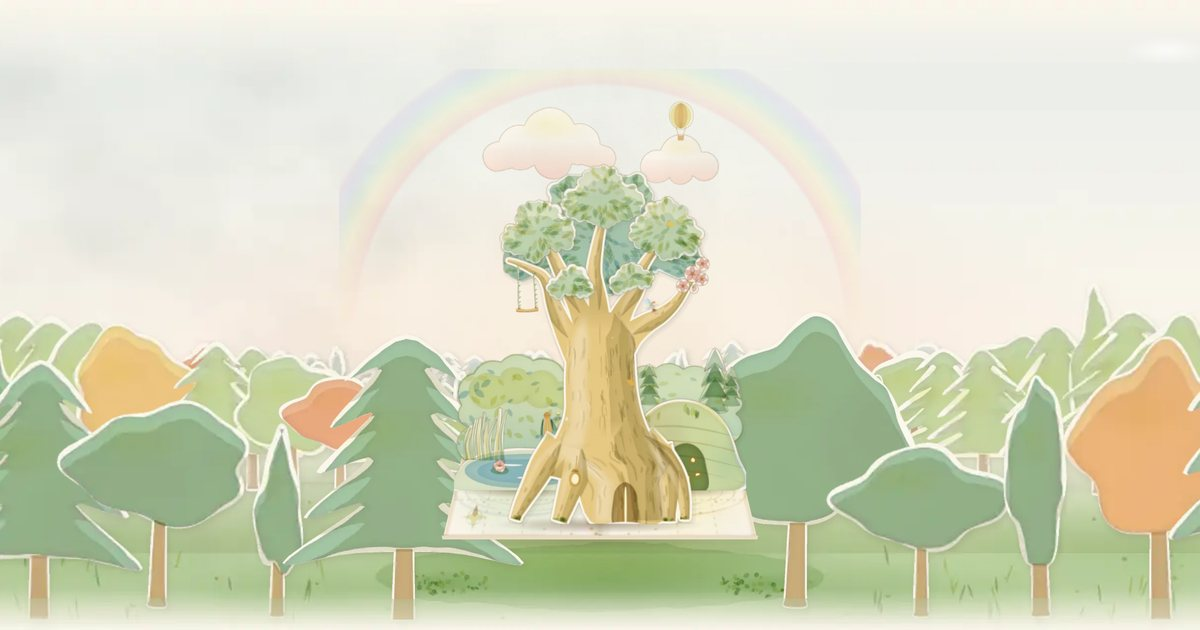
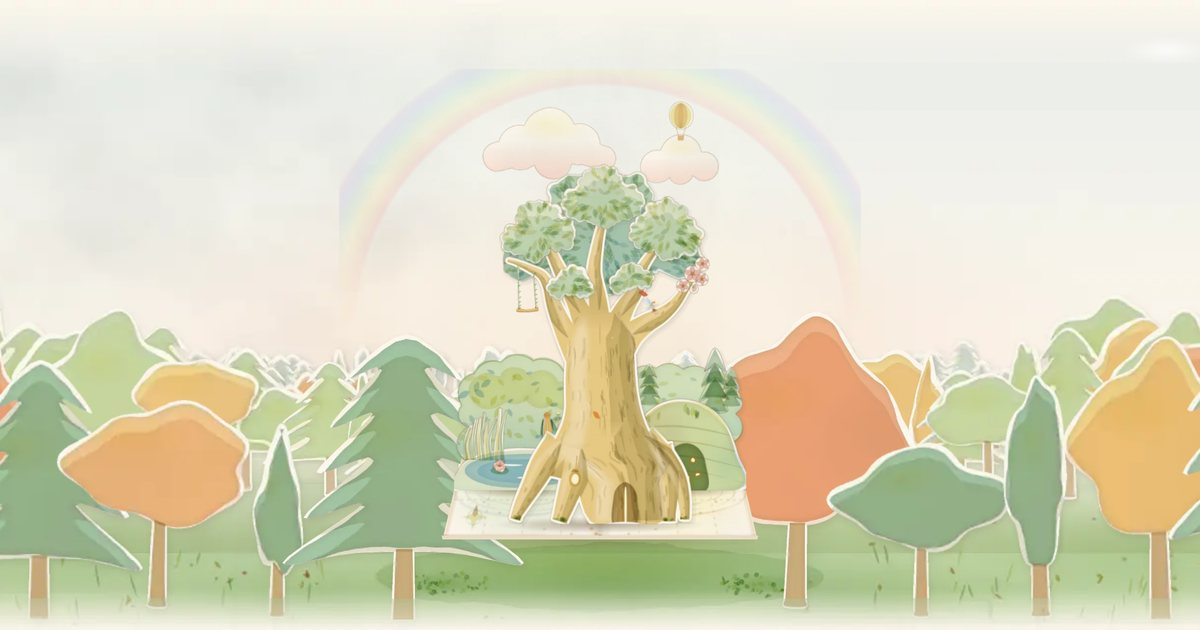
工房ホームページ：季節ごとの森（春・夏・秋・冬）・冬は紅葉する木が枝だけになり雪が積もる
- 森の並びは4つの季節で同じにし、色だけを変える。ページは今の季節の4枚だけを読む
- 春＝若葉に桜の桃・夏＝深い緑・秋＝金・朱・黄土・冬＝紅葉する木は葉を落として枝の上に雪、もみは段の上側に雪、常緑の葉むらは上の面に雪、地面は雪
- 曲を切り替えた後、裏の再生器の音量を 0 まで下げきる（0.001 が残ることがあった）

diff --git a/app.js b/app.js
@@ -1,7 +1,7 @@
 (() => {
   'use strict';
   // 台帳（works.json）は、組み立ての時にここへ流しこむ（ページの外から文字は入らない）
-  const DATA = {"places":[{"id":"roots","name":"根元の工房","sub":"地図と道具","line":"会社の道具を、AIとつくる作業場。連載の中身を、触れる地図と道具にしました。"},{"id":"branch","name":"枝","sub":"カードの花","line":"節目に咲く、仕掛けつきのカード。LINE で送れます。"},{"id":"play","name":"遊び場","sub":"ミニゲーム","line":"触って遊べるミニゲームの部屋。ここから直に入れます。"},{"id":"spring","name":"泉","sub":"音楽","line":"AI音楽工房の MV。工房が企画し、BGM&V Studio が制作しています。"},{"id":"cave","name":"洞窟","sub":"連載と動画","line":"経営者のための連載「AI内製化の羅針盤」と、記事の動画。"},{"id":"cloud","name":"雲の上","sub":"旅","line":"本物の旅のしおりと、想像の世界旅行。"}],"notice":["当工房では職人が気ままに作っているため、突然変更が入ったり、途中でとまっているコンテンツがあったりします。","これは作成途中をリアルタイムにお見せする趣旨のものですので、作りかけの雰囲気も含めて楽しんでもらい、成長を見守っていただけたら幸いです。"],"voices":{"調整中":["ちょっと調整中。見てもいいけど変なところがあっても気にしないでね。","いま、ねじを締め直しているところ。動くけど、ときどきガタッとするかも。","仕上げの真っ最中！ 気づいたことがあったら、そっと教えてね。","ただいま磨き中。ピカピカになるまで、もう少し。"],"作りかけ":["ただいま作りかけ。リアルタイム進行中。","まだ骨組みだけど、のぞいていってね。","作っている途中をそのまま見せちゃうよ。明日には変わってるかも！","工房の机の上で、いま組み立て中。"],"準備中":["今作成中だよ！もうすぐ公開するね！","まだ種の中。芽が出たら、ここでお知らせするね。","いま、絵の具を溶いているところ。もう少しだけ待っててね。","職人がこっそり仕込み中。お楽しみに！"]},"works":[{"place":"roots","group":"3Dの地図","kind":"触れる","name":"4つの島の航海図（利益マップ）","note":"「何から入れると儲かる？」を、3Dの海図に。","url":"https://tatatasan323-cell.github.io/note-app/"},{"place":"roots","group":"3Dの地図","kind":"触れる","name":"天空の城への道（内製化ロードマップ）","note":"6つの関門を越えて、天空の城へ。","url":"https://tatatasan323-cell.github.io/note-app/road.html"},{"place":"roots","group":"3Dの地図","kind":"触れる","name":"AIの全体地図（6層＋4横断面）","note":"会社のAIの仕組みを、6つの層で見る。","url":"https://tatatasan323-cell.github.io/note-app/arch.html"},{"place":"roots","group":"3Dの地図","kind":"触れる","name":"そもそもAIって？ 5部作の地図","note":"「そもそもAIって？」5本の地図。","url":"https://tatatasan323-cell.github.io/note-app/aimap/"},{"place":"roots","group":"道具","kind":"触れる","name":"城 ─ 経営ステータス","note":"社長の一枚画面。架空の会社で動くデモ。","url":"https://tatatasan323-cell.github.io/castle/"},{"place":"roots","group":"道具","kind":"触れる","name":"転記ゼロ（tenki-zero 体験版）","note":"転記の手作業をなくす仕組みを、ブラウザで試す。","url":"https://tatatasan323-cell.github.io/tenki-zero/"},{"place":"roots","group":"手引き","kind":"読む","name":"AIエージェント利用ガイド","note":"部下としてハーネスする。社内で配れる手引き。","url":"https://tatatasan323-cell.github.io/note-app/ai-agent-guide.html"},{"place":"roots","group":"手引き","kind":"読む","name":"乗っ取り対策の手引き","note":"パスキーでも守れない、2つの穴。","url":"https://tatatasan323-cell.github.io/note-app/security-guide.html"},{"place":"roots","group":"手引き","kind":"読む","name":"会社のセキュリティ段階表","note":"自社の段階を確かめる表。","url":"https://tatatasan323-cell.github.io/note-app/security-levels.html"},{"place":"roots","group":"時報","kind":"読む","name":"ＡＩ内製化時報 第001号","note":"システムプロンプト、八割削除。","url":"https://tatatasan323-cell.github.io/note-app/jihou-001.html"},{"place":"roots","group":"時報","kind":"読む","name":"ＡＩ内製化時報 第002号","note":"穴を空けたのはAI、突いたのもAI。","url":"https://tatatasan323-cell.github.io/note-app/jihou-002.html"},{"place":"roots","group":"工房のこれから","kind":"歩く","status":"準備中","name":"世界樹の村（3Dで歩ける町）","note":"この地図の本から入って、村を歩けるようにします。","url":""},{"place":"branch","group":"カード","kind":"触れる","name":"ハロウィン招待状 ─ おばけの庭へようこそ","note":"おばけに触れると、音と豆知識。","url":"https://tatatasan323-cell.github.io/gimmick-cards/halloween/"},{"place":"branch","group":"カード","kind":"触れる","name":"とろけて聖夜 ─ おかしな港町","note":"宝石をはじき、ステンドグラスを割り、氷を削る冬の港町（動く3D）。","url":"https://tatatasan323-cell.github.io/gimmick-cards/christmas-town/"},{"place":"branch","group":"カード","kind":"触れる","name":"とろけて聖夜 ─ X'mas グリーティングカード","note":"港町とつながるカード。","url":"https://tatatasan323-cell.github.io/gimmick-cards/christmas-town/card.html"},{"place":"branch","group":"カード","kind":"触れる","status":"調整中","name":"正月のカード ─ 作品の一覧","note":"正月のカード 76 作。絵を押すと、さわって動く本物が開きます。","url":"https://ai-naiseika.github.io/cards/shogatsu/"},{"place":"branch","group":"カード","kind":"触れる","status":"作りかけ","name":"送る予定 ─ 節目のカード","note":"カードを、あとで送るための予定。時間になったら、スマホのカレンダーが知らせます。","url":"https://ai-naiseika.github.io/cards/yotei/"},{"place":"play","group":"おかしな港町の部屋","kind":"触れる","name":"ステンドグラスの礼拝堂","note":"窓をタップすると、かけらが落ちて砕け、光の粒になって元の窓へ。","date":"2026-10-16","url":"https://tatatasan323-cell.github.io/gimmick-cards/christmas-town/glass.html?from=kobo"},{"place":"play","group":"おかしな港町の部屋","kind":"触れる","name":"宝石の美術館","note":"一人称で歩く大ホール。宝石はそっと触ると歌い、強くたたくと…？","date":"2026-10-16","url":"https://tatatasan323-cell.github.io/gimmick-cards/christmas-town/museum.html?from=kobo"},{"place":"play","group":"おかしな港町の部屋","kind":"触れる","name":"氷の彫像の広場","note":"ノミでコンコン、機械でガリガリ。削って宝石を取り出す。","date":"2026-10-16","url":"https://tatatasan323-cell.github.io/gimmick-cards/christmas-town/ice.html?from=kobo"},{"place":"play","group":"おかしな港町の部屋","kind":"触れる","name":"ぷるぷる水そう","note":"水の中を泳ぎながら、グミたちをつまんで伸ばす。","date":"2026-10-16","url":"https://tatatasan323-cell.github.io/gimmick-cards/christmas-town/swim.html?from=kobo"},{"place":"play","group":"おかしな港町の部屋","kind":"触れる","name":"グミのつみき","note":"空に浮かぶテーブルで、グミの積み木。はじいて、持って、高く積む。","date":"2026-10-16","url":"https://tatatasan323-cell.github.io/gimmick-cards/christmas-town/blocks.html?from=kobo"},{"place":"spring","group":"MV","kind":"見る","name":"雨上がりの小径 ― 水たまりを、跳んでいたころ","note":"最初の MV。","date":"2026-10-06","url":"https://youtu.be/yi53ACtNxp8"},{"place":"spring","group":"MV","kind":"見る","name":"パンプキン・ポン！ ― ハロウィンの夜のドキドキ","note":"切り絵の魔女とモンスターの踊り。","date":"2026-10-14","url":"https://youtu.be/uFx4Vcr8o8A"},{"place":"spring","group":"MV","kind":"見る","name":"Friends Around the Table ─ テーブルに集まれ！","note":"クリスマス3部作の1本目。","date":"2026-10-19","url":"https://youtu.be/pEvqS5da3-s"},{"place":"spring","group":"MV","kind":"見る","name":"Christmas Feels Like Being ─ きみといる、それがクリスマス","note":"クリスマス3部作の2本目。","date":"2026-10-20","url":"https://youtu.be/Z6vJkx9_u-s"},{"place":"spring","group":"MV","kind":"見る","name":"Singing Glory ─ グローリー・グローリー！","note":"クリスマス3部作の3本目。","date":"2026-10-23","url":"https://youtu.be/oR3KyE3Zmxo"},{"place":"cave","group":"記事の動画","kind":"見る","name":"AI導入、なぜ罠にはまる？ ─ 天空の城へ続く「6つの関門」","note":"","date":"2026-10-13","url":"https://youtu.be/-Dja11xVGzQ"},{"place":"cave","group":"記事の動画","kind":"見る","name":"AI導入、まず何から？ ─ 儲けにつながる「4つの島」の航海図","note":"","date":"2026-10-10","url":"https://youtu.be/xKATNxc-q50"},{"place":"cave","group":"記事の動画","kind":"見る","name":"動画生成AIなしで描いた26の画風 ── コードで描くアニメーション見本帳","note":"","date":"2026-10-07","url":"https://youtu.be/dQ2MLnKi8rE"},{"place":"cave","group":"記事の動画","kind":"見る","name":"DeepSeekなど中国AIは業務に使っていい？ ー 決め手は性能でも価格でもなく「調達」","note":"","date":"2026-10-06","url":"https://youtu.be/P4EKVp7NFms"},{"place":"cave","group":"記事の動画","kind":"見る","name":"「AIで、仕事は消えるのか」──ある会社の \"未来の一日\"【朗読ストーリー】","note":"","date":"2026-08-15","url":"https://youtu.be/s-KqdbO6xWk"},{"place":"cave","group":"記事の動画","kind":"見る","name":"【HTMLとは？ Pythonとは？】 AI内製化の全体像が4分で分かる見取り図","note":"","date":"2026-07-27","url":"https://youtu.be/c1A3KVXweG0"},{"place":"cave","group":"記事の動画","kind":"見る","name":"【スクール不要】月3,000円で始めるAI内製化／総集編・全8話","note":"","date":"2026-07-03","url":"https://youtu.be/3dDNd_MuB0Y"},{"place":"cave","group":"物語","kind":"読む","name":"未来の一日 ─ どこにでもある会社の朝","note":"朗読ストーリーの本。","url":"https://tatatasan323-cell.github.io/note-app/mirai/"},{"place":"cave","group":"連載","kind":"読む","date":"2026-10-19","name":"AI利用、どこから始めるか。答えは「1人」と「1つの痛み」","url":"https://note.com/ai_naiseika/n/n27912da5b3da"},{"place":"cave","group":"連載","kind":"読む","date":"2026-10-13","name":"「スクールもコンサルも要らない」の、本当の意味","url":"https://note.com/ai_naiseika/n/n51217db465e9"},{"place":"cave","group":"連載","kind":"読む","date":"2026-10-12","name":"前橋の観光案内を、AIと2日で作る ー 「確かめた度合い」を隠さない作り方","url":"https://note.com/ai_naiseika/n/n5c6551d1beac"},{"place":"cave","group":"連載","kind":"読む","date":"2026-10-12","name":"工房からの警告 再び ー AIに任せていい所、いけない所","url":"https://note.com/ai_naiseika/n/neb45bbba31cf"},{"place":"cave","group":"連載","kind":"読む","date":"2026-10-10","name":"AIエージェントがあるのに、仕組みを作る理由 ー 内製化すべき2つの場所","url":"https://note.com/ai_naiseika/n/n667d22b71479"},{"place":"cave","group":"連載","kind":"読む","date":"2026-10-07","name":"会話だけで動画を作る ー【脱・動画生成】AIアニメーションの可能性","url":"https://note.com/ai_naiseika/n/na5e82389ac72"},{"place":"cave","group":"連載","kind":"読む","date":"2026-10-06","name":"工房からの警告 ー 「AIが勝手に動き回る？」報道の真偽と、守るべき場所","url":"https://note.com/ai_naiseika/n/n4c308409efd9"},{"place":"cave","group":"連載","kind":"読む","date":"2026-10-03","name":"ある日突然の「アカバン」 ー 生成AIサブスクの落とし穴","url":"https://note.com/ai_naiseika/n/n8923fd964394"},{"place":"cave","group":"連載","kind":"読む","date":"2026-09-29","name":"AI巨額投資の行く末 ー いつか来る「ババ抜き」ゲームの終わり","url":"https://note.com/ai_naiseika/n/nc9e8207bcf78"},{"place":"cave","group":"連載","kind":"読む","date":"2026-09-28","name":"パスキーも乗っ取られる時代に。必ずすべきセキュリティ対策とは。","url":"https://note.com/ai_naiseika/n/n5b747190fa6e"},{"place":"cave","group":"連載","kind":"読む","date":"2026-09-27","name":"AI暴走論と終末論のさなかで ー あなたがすべき一手とは","url":"https://note.com/ai_naiseika/n/nf04f65023439"},{"place":"cave","group":"連載","kind":"読む","date":"2026-09-21","name":"奇跡の37手から10年。中国AIの実力と、日本企業が引くべき一線。","url":"https://note.com/ai_naiseika/n/n31214e08120e"},{"place":"cave","group":"連載","kind":"読む","date":"2026-09-20","name":"AI依存症に陥らないためのガイド ー 「AIに聞く/指示する」2つの違い","url":"https://note.com/ai_naiseika/n/n4193a3063552"},{"place":"cave","group":"連載","kind":"読む","date":"2026-09-14","name":"あなたのAI、期待通り動きますか？ ー AIの力を引き出すための思考法","url":"https://note.com/ai_naiseika/n/n7e4462f1908f"},{"place":"cave","group":"連載","kind":"読む","date":"2026-09-08","name":"バックオフィスが消える日。社内ステータスがリアルに見える未来への羅針盤。","url":"https://note.com/ai_naiseika/n/n07f8688e64df"},{"place":"cave","group":"連載","kind":"読む","date":"2026-08-31","name":"AIが空けた穴を、別のAIが5日で見つけて突く ── 8月までのAI事故と、私の工房の点検結果","url":"https://note.com/ai_naiseika/n/ned77cf0c294e"},{"place":"cave","group":"連載","kind":"読む","date":"2026-08-26","name":"AIのこれから ─ 「情報の土台」を持つことの意味","url":"https://note.com/ai_naiseika/n/n54fd60e90f04"},{"place":"cave","group":"連載","kind":"読む","date":"2026-08-24","name":"AI最前線 ─ 代表5社の現在地と、内製化に使うべき道具","url":"https://note.com/ai_naiseika/n/n06bea781e796"},{"place":"cave","group":"連載","kind":"読む","date":"2026-08-17","name":"OpenAIという物語 ─ 「人類のためのAI」は、どこへ向かっているのか","url":"https://note.com/ai_naiseika/n/n12816bc47432"},{"place":"cave","group":"連載","kind":"読む","date":"2026-08-11","name":"70年というAIの歩み ─ その挑戦と、“ 奇跡の一手 ” と、一本の論文","url":"https://note.com/ai_naiseika/n/n3471aeed4c26"},{"place":"cave","group":"連載","kind":"読む","date":"2026-08-01","name":"AIとは本当は何なのか　優秀な相棒？　頼れる相談役？　得体のしれない何か？","url":"https://note.com/ai_naiseika/n/n33eadda7b1b0"},{"place":"cave","group":"連載","kind":"読む","date":"2026-07-31","name":"経営者が知るべき、最後まで残る仕事 ─ AIが連れて行く “異世界” の話","url":"https://note.com/ai_naiseika/n/ne340418a0949"},{"place":"cave","group":"連載","kind":"読む","date":"2026-07-28","name":"Anthropicが、自社のAI開発ツールの内部指示を8割以上削除。その真意は？","url":"https://note.com/ai_naiseika/n/nec9184d934b1"},{"place":"cave","group":"連載","kind":"読む","date":"2026-07-27","name":"HTMLとは？ Pythonとは？ ─ 目指す内製化を一目で理解する見取り図","url":"https://note.com/ai_naiseika/n/ne47dde16170f"},{"place":"cave","group":"連載","kind":"読む","date":"2026-07-23","name":"AIは本当に安全なのか？ 世間で騒がれているプロンプトインジェクションを回避する唯一の方法とは？","url":"https://note.com/ai_naiseika/n/nd3d82deb2f4f"},{"place":"cave","group":"連載","kind":"読む","date":"2026-07-20","name":"その事務仕事いつまでやるのですか？【２】　例えば転記作業が無くなる日","url":"https://note.com/ai_naiseika/n/n5f46bef5c41b"},{"place":"cave","group":"連載","kind":"読む","date":"2026-07-12","name":"その事務仕事いつまでやるのですか？【１】　例えば明細を放り込むだけのツール","url":"https://note.com/ai_naiseika/n/n56e563d80e2a"},{"place":"cave","group":"連載","kind":"読む","date":"2026-07-06","name":"AI導入、知らないと失敗する ─ 成功に近づくための「内製化ロードマップ」","url":"https://note.com/ai_naiseika/n/nbf98e9add127"},{"place":"cave","group":"連載","kind":"読む","date":"2026-07-04","name":"ぶっちゃけ、AIは何から入れると儲かる？ ─ 経営者のための “利益” の地図","url":"https://note.com/ai_naiseika/n/nb7e3a2ca7fca"},{"place":"cave","group":"連載","kind":"読む","date":"2026-06-29","name":"繰り返し定型作業をAIで ─ 一度の “仕組み” が大切","url":"https://note.com/ai_naiseika/n/n9462746fd8ba"},{"place":"cave","group":"連載","kind":"読む","date":"2026-06-22","name":"メールは良いのに、AIはダメ？ ─ 会社の情報を “どこまで外に出すか”","url":"https://note.com/ai_naiseika/n/n295bc71d253d"},{"place":"cave","group":"連載","kind":"読む","date":"2026-06-15","name":"プロトタイプは早い、本番はその先 ─ 内製化を「育てる」ということ","url":"https://note.com/ai_naiseika/n/n4f8ea3f4696d"},{"place":"cave","group":"連載","kind":"読む","date":"2026-06-12","name":"バイブコーディングが通用しなくなる日 ─ AIに渡す『要件定義』の話","url":"https://note.com/ai_naiseika/n/n5f043fb74a72"},{"place":"cave","group":"連載","kind":"読む","date":"2026-06-09","name":"AIは嘘をつかない。けれど、あなたに「忖度」する","url":"https://note.com/ai_naiseika/n/n34c94b0c2a20"},{"place":"cave","group":"連載","kind":"読む","date":"2026-06-04","name":"AIと迷走しないために、最初にやるべきこと","url":"https://note.com/ai_naiseika/n/nb72e3552d43d"},{"place":"cave","group":"連載","kind":"読む","date":"2026-05-31","name":"AIエージェントを、今日入れる ─ 使い方も、AIに聞けばいい","url":"https://note.com/ai_naiseika/n/n808d67e92440"},{"place":"cave","group":"連載","kind":"読む","date":"2026-05-26","name":"「こうしたい」と伝えるだけで、何かが作れる時代","url":"https://note.com/ai_naiseika/n/n912fbc83f1c6"},{"place":"cave","group":"連載","kind":"読む","date":"2026-05-25","name":"料理人だった私が、AI内製化でシステムを作れる理由","url":"https://note.com/ai_naiseika/n/nd6a51b98694c"},{"place":"cave","group":"連載","kind":"読む","date":"2026-05-18","name":"AIを学ぶのに「スクール」「コンサル」が要らない新時代","url":"https://note.com/ai_naiseika/n/ndfc95eb3f0fa"},{"place":"cloud","group":"旅のしおり","kind":"使う","name":"前橋まちあるき（12/20 まで）","note":"芸術祭と「詩のまち」を歩く案内。確かめた度合いを印で示す。","url":"https://tatatasan323-cell.github.io/note-app/tabi/maebashi/"},{"place":"cloud","group":"旅のしおり","kind":"使う","name":"松本まちあるき","note":"松本駅から美ヶ原温泉まで、ゆるく歩く参考メモ（11/7〜8 の例）。","url":"https://tatatasan323-cell.github.io/note-app/tabi/matsumoto-burari/"},{"place":"cloud","group":"世界旅行","kind":"見る","name":"想像の世界旅行","note":"雲に乗って、想像だけで世界を旅する部屋を作っています。","status":"準備中","url":""}],"links":[{"name":"note「AI内製化の羅針盤」","url":"https://note.com/ai_naiseika"},{"name":"YouTube「AI内製化工房 MITA」","url":"https://www.youtube.com/@ai_naiseika_mita"},{"name":"X @ai_naiseika","url":"https://x.com/ai_naiseika"},{"name":"音楽 BGM&V Studio（AI音楽工房の制作）","url":"https://www.youtube.com/@BackgroundMusicVideoStudio"}],"trees":{"sizes":[[1334,481],[1485,1108]],"cells":[[-153,268,314,243,868,396,12,495,0,1],[-7,283,281,227,261,677,128,494,0,1],[102,302,270,216,772,677,241,497,0,1],[234,319,265,197,0,911,368,495,0,1],[374,349,194,163,947,0,477,495,0,0],[465,366,189,151,1143,0,566,503,0,0],[813,367,184,136,0,345,906,489,0,0],[897,324,259,185,686,0,1018,489,0,0],[1016,313,220,198,1263,677,1126,493,0,1],[1079,274,296,243,1184,396,1223,497,0,1],[1198,256,312,254,554,396,1349,492,0,1],[1313,284,259,232,0,677,1444,501,0,1],[-169,240,398,394,0,0,30,620,1,1],[-11,325,322,315,1131,0,150,630,1,1],[136,358,268,266,284,396,270,610,1,1],[283,419,217,215,1044,677,392,620,1,1],[344,297,351,343,0,0,520,630,1,0],[752,297,331,327,353,0,918,610,1,0],[933,410,226,224,544,677,1046,620,1,1],[1027,355,282,279,0,396,1168,620,1,1],[1121,310,338,330,791,0,1290,630,1,1],[1215,239,389,385,400,0,1410,610,1,1]]},"music":{"settings":{"volume":0.7,"overlap":4,"fade_in":4},"rules":[{"place":"roots","song":"03"},{"months":[12,1,2],"hours":[16,5],"song":"06"},{"hours":[5,11],"song":"01"},{"hours":[11,16],"songs":["04","05"]},{"hours":[16,5],"song":"02"}],"songs":[{"no":"01","title":"朝つゆの森","note":"朝の光が、葉の先の露をひとつずつ照らしていく森。チェレスタとオルゴールがきらきらと目をさまし、ハープとグロッケン、カリンバが続きます。フルートは、遠くで鳴く小鳥のように。","trivia":["チェレスタは、パリの楽器製作者オーギュスト・ミュステルが1886年に特許をとった楽器。","チャイコフスキーの『くるみ割り人形』の「金平糖の踊り」は、チェレスタを使った曲として有名。"],"file":"bgm/01.m4a","bpm":68.0,"ready":true},{"no":"02","title":"ほたるの灯る夜","note":"日が落ちて、森にほたるの小さな灯りがともる夜。チェレスタとオルゴール、ハープが静かに瞬き、言葉のないコーラスと鈴の音が、闇をやさしく包みます。","trivia":["オルゴールの歴史は1796年、ジュネーブの時計職人アントワーヌ・ファーブルの発明から始まったとされる。"],"file":"bgm/02.m4a","bpm":58.75,"ready":true},{"no":"03","title":"世界樹への祈り","note":"工房の根元で、世界樹に手を当てて祈るひととき。ケルトのハープが静かに語り、ティンホイッスルが風のように、チェロが大地のように深く響きます。","trivia":["アイルランドの国章はハープ。大統領や大臣の印章にも、アイルランドのユーロ硬貨にも描かれている。","国章のハープのお手本は、ダブリンのトリニティ・カレッジの博物館に残る14世紀のハープ。"],"file":"bgm/03.m4a","bpm":89.1,"ready":true},{"no":"04","title":"妖精たちのワルツ","note":"昼下がりの木もれ日の中、妖精たちが輪になって踊る3拍子。オルゴールとチェレスタがくるくる回り、ピチカートの弦が足どりを刻み、フルートが軽やかに舞います。","trivia":["ワルツは4分の3拍子の踊りの曲。1814〜15年のウィーン会議をきっかけに、ヨーロッパ中へ広まった。","『美しく青きドナウ』は「ワルツ王」ヨハン・シュトラウス2世の曲。1867年にウィーンで初演された。"],"file":"bgm/04.m4a","bpm":95.7,"ready":true},{"no":"05","title":"雨上がりのしずく","note":"雨がやんで、葉から落ちるしずくが光る森。ピアノとチェレスタが雫のように、カリンバがぽつぽつと、ウィンドチャイムが風にゆれて鳴ります。","trivia":["カリンバはアフリカの「親指ピアノ」の仲間。金属の鍵の親指ピアノは、約1300年前にザンベジ川のほとりで生まれたという。","ピアノの黒鍵だけを弾くと、五つの音でできた音階「ペンタトニック（五音音階）」になる。"],"file":"bgm/05.m4a","bpm":64.6,"ready":true},{"no":"06","title":"雪ふる森の冬ごもり","note":"雪が音を吸いこんで、しんと静かな冬の夜の森。チェレスタとオルゴール、ハープがやわらかく降り、グラスハーモニカの澄んだ響きが、雪明かりのように広がります。","trivia":["グラスハーモニカは、フランクリンが1761年に完成させた楽器。回るガラスの器のふちに、ぬれた指で触れて鳴らす。","モーツァルトも1791年、グラスハーモニカの入った「アダージョとロンド」（K.617）を書いた。"],"file":"bgm/06.m4a","bpm":68.0,"ready":true}]}};
+  const DATA = {"places":[{"id":"roots","name":"根元の工房","sub":"地図と道具","line":"会社の道具を、AIとつくる作業場。連載の中身を、触れる地図と道具にしました。"},{"id":"branch","name":"枝","sub":"カードの花","line":"節目に咲く、仕掛けつきのカード。LINE で送れます。"},{"id":"play","name":"遊び場","sub":"ミニゲーム","line":"触って遊べるミニゲームの部屋。ここから直に入れます。"},{"id":"spring","name":"泉","sub":"音楽","line":"AI音楽工房の MV。工房が企画し、BGM&V Studio が制作しています。"},{"id":"cave","name":"洞窟","sub":"連載と動画","line":"経営者のための連載「AI内製化の羅針盤」と、記事の動画。"},{"id":"cloud","name":"雲の上","sub":"旅","line":"本物の旅のしおりと、想像の世界旅行。"}],"notice":["当工房では職人が気ままに作っているため、突然変更が入ったり、途中でとまっているコンテンツがあったりします。","これは作成途中をリアルタイムにお見せする趣旨のものですので、作りかけの雰囲気も含めて楽しんでもらい、成長を見守っていただけたら幸いです。"],"voices":{"調整中":["ちょっと調整中。見てもいいけど変なところがあっても気にしないでね。","いま、ねじを締め直しているところ。動くけど、ときどきガタッとするかも。","仕上げの真っ最中！ 気づいたことがあったら、そっと教えてね。","ただいま磨き中。ピカピカになるまで、もう少し。"],"作りかけ":["ただいま作りかけ。リアルタイム進行中。","まだ骨組みだけど、のぞいていってね。","作っている途中をそのまま見せちゃうよ。明日には変わってるかも！","工房の机の上で、いま組み立て中。"],"準備中":["今作成中だよ！もうすぐ公開するね！","まだ種の中。芽が出たら、ここでお知らせするね。","いま、絵の具を溶いているところ。もう少しだけ待っててね。","職人がこっそり仕込み中。お楽しみに！"]},"works":[{"place":"roots","group":"3Dの地図","kind":"触れる","name":"4つの島の航海図（利益マップ）","note":"「何から入れると儲かる？」を、3Dの海図に。","url":"https://tatatasan323-cell.github.io/note-app/"},{"place":"roots","group":"3Dの地図","kind":"触れる","name":"天空の城への道（内製化ロードマップ）","note":"6つの関門を越えて、天空の城へ。","url":"https://tatatasan323-cell.github.io/note-app/road.html"},{"place":"roots","group":"3Dの地図","kind":"触れる","name":"AIの全体地図（6層＋4横断面）","note":"会社のAIの仕組みを、6つの層で見る。","url":"https://tatatasan323-cell.github.io/note-app/arch.html"},{"place":"roots","group":"3Dの地図","kind":"触れる","name":"そもそもAIって？ 5部作の地図","note":"「そもそもAIって？」5本の地図。","url":"https://tatatasan323-cell.github.io/note-app/aimap/"},{"place":"roots","group":"道具","kind":"触れる","name":"城 ─ 経営ステータス","note":"社長の一枚画面。架空の会社で動くデモ。","url":"https://tatatasan323-cell.github.io/castle/"},{"place":"roots","group":"道具","kind":"触れる","name":"転記ゼロ（tenki-zero 体験版）","note":"転記の手作業をなくす仕組みを、ブラウザで試す。","url":"https://tatatasan323-cell.github.io/tenki-zero/"},{"place":"roots","group":"手引き","kind":"読む","name":"AIエージェント利用ガイド","note":"部下としてハーネスする。社内で配れる手引き。","url":"https://tatatasan323-cell.github.io/note-app/ai-agent-guide.html"},{"place":"roots","group":"手引き","kind":"読む","name":"乗っ取り対策の手引き","note":"パスキーでも守れない、2つの穴。","url":"https://tatatasan323-cell.github.io/note-app/security-guide.html"},{"place":"roots","group":"手引き","kind":"読む","name":"会社のセキュリティ段階表","note":"自社の段階を確かめる表。","url":"https://tatatasan323-cell.github.io/note-app/security-levels.html"},{"place":"roots","group":"時報","kind":"読む","name":"ＡＩ内製化時報 第001号","note":"システムプロンプト、八割削除。","url":"https://tatatasan323-cell.github.io/note-app/jihou-001.html"},{"place":"roots","group":"時報","kind":"読む","name":"ＡＩ内製化時報 第002号","note":"穴を空けたのはAI、突いたのもAI。","url":"https://tatatasan323-cell.github.io/note-app/jihou-002.html"},{"place":"roots","group":"工房のこれから","kind":"歩く","status":"準備中","name":"世界樹の村（3Dで歩ける町）","note":"この地図の本から入って、村を歩けるようにします。","url":""},{"place":"branch","group":"カード","kind":"触れる","name":"ハロウィン招待状 ─ おばけの庭へようこそ","note":"おばけに触れると、音と豆知識。","url":"https://tatatasan323-cell.github.io/gimmick-cards/halloween/"},{"place":"branch","group":"カード","kind":"触れる","name":"とろけて聖夜 ─ おかしな港町","note":"宝石をはじき、ステンドグラスを割り、氷を削る冬の港町（動く3D）。","url":"https://tatatasan323-cell.github.io/gimmick-cards/christmas-town/"},{"place":"branch","group":"カード","kind":"触れる","name":"とろけて聖夜 ─ X'mas グリーティングカード","note":"港町とつながるカード。","url":"https://tatatasan323-cell.github.io/gimmick-cards/christmas-town/card.html"},{"place":"branch","group":"カード","kind":"触れる","status":"調整中","name":"正月のカード ─ 作品の一覧","note":"正月のカード 76 作。絵を押すと、さわって動く本物が開きます。","url":"https://ai-naiseika.github.io/cards/shogatsu/"},{"place":"branch","group":"カード","kind":"触れる","status":"作りかけ","name":"送る予定 ─ 節目のカード","note":"カードを、あとで送るための予定。時間になったら、スマホのカレンダーが知らせます。","url":"https://ai-naiseika.github.io/cards/yotei/"},{"place":"play","group":"おかしな港町の部屋","kind":"触れる","name":"ステンドグラスの礼拝堂","note":"窓をタップすると、かけらが落ちて砕け、光の粒になって元の窓へ。","date":"2026-10-16","url":"https://tatatasan323-cell.github.io/gimmick-cards/christmas-town/glass.html?from=kobo"},{"place":"play","group":"おかしな港町の部屋","kind":"触れる","name":"宝石の美術館","note":"一人称で歩く大ホール。宝石はそっと触ると歌い、強くたたくと…？","date":"2026-10-16","url":"https://tatatasan323-cell.github.io/gimmick-cards/christmas-town/museum.html?from=kobo"},{"place":"play","group":"おかしな港町の部屋","kind":"触れる","name":"氷の彫像の広場","note":"ノミでコンコン、機械でガリガリ。削って宝石を取り出す。","date":"2026-10-16","url":"https://tatatasan323-cell.github.io/gimmick-cards/christmas-town/ice.html?from=kobo"},{"place":"play","group":"おかしな港町の部屋","kind":"触れる","name":"ぷるぷる水そう","note":"水の中を泳ぎながら、グミたちをつまんで伸ばす。","date":"2026-10-16","url":"https://tatatasan323-cell.github.io/gimmick-cards/christmas-town/swim.html?from=kobo"},{"place":"play","group":"おかしな港町の部屋","kind":"触れる","name":"グミのつみき","note":"空に浮かぶテーブルで、グミの積み木。はじいて、持って、高く積む。","date":"2026-10-16","url":"https://tatatasan323-cell.github.io/gimmick-cards/christmas-town/blocks.html?from=kobo"},{"place":"spring","group":"MV","kind":"見る","name":"雨上がりの小径 ― 水たまりを、跳んでいたころ","note":"最初の MV。","date":"2026-10-06","url":"https://youtu.be/yi53ACtNxp8"},{"place":"spring","group":"MV","kind":"見る","name":"パンプキン・ポン！ ― ハロウィンの夜のドキドキ","note":"切り絵の魔女とモンスターの踊り。","date":"2026-10-14","url":"https://youtu.be/uFx4Vcr8o8A"},{"place":"spring","group":"MV","kind":"見る","name":"Friends Around the Table ─ テーブルに集まれ！","note":"クリスマス3部作の1本目。","date":"2026-10-19","url":"https://youtu.be/pEvqS5da3-s"},{"place":"spring","group":"MV","kind":"見る","name":"Christmas Feels Like Being ─ きみといる、それがクリスマス","note":"クリスマス3部作の2本目。","date":"2026-10-20","url":"https://youtu.be/Z6vJkx9_u-s"},{"place":"spring","group":"MV","kind":"見る","name":"Singing Glory ─ グローリー・グローリー！","note":"クリスマス3部作の3本目。","date":"2026-10-23","url":"https://youtu.be/oR3KyE3Zmxo"},{"place":"cave","group":"記事の動画","kind":"見る","name":"AI導入、なぜ罠にはまる？ ─ 天空の城へ続く「6つの関門」","note":"","date":"2026-10-13","url":"https://youtu.be/-Dja11xVGzQ"},{"place":"cave","group":"記事の動画","kind":"見る","name":"AI導入、まず何から？ ─ 儲けにつながる「4つの島」の航海図","note":"","date":"2026-10-10","url":"https://youtu.be/xKATNxc-q50"},{"place":"cave","group":"記事の動画","kind":"見る","name":"動画生成AIなしで描いた26の画風 ── コードで描くアニメーション見本帳","note":"","date":"2026-10-07","url":"https://youtu.be/dQ2MLnKi8rE"},{"place":"cave","group":"記事の動画","kind":"見る","name":"DeepSeekなど中国AIは業務に使っていい？ ー 決め手は性能でも価格でもなく「調達」","note":"","date":"2026-10-06","url":"https://youtu.be/P4EKVp7NFms"},{"place":"cave","group":"記事の動画","kind":"見る","name":"「AIで、仕事は消えるのか」──ある会社の \"未来の一日\"【朗読ストーリー】","note":"","date":"2026-08-15","url":"https://youtu.be/s-KqdbO6xWk"},{"place":"cave","group":"記事の動画","kind":"見る","name":"【HTMLとは？ Pythonとは？】 AI内製化の全体像が4分で分かる見取り図","note":"","date":"2026-07-27","url":"https://youtu.be/c1A3KVXweG0"},{"place":"cave","group":"記事の動画","kind":"見る","name":"【スクール不要】月3,000円で始めるAI内製化／総集編・全8話","note":"","date":"2026-07-03","url":"https://youtu.be/3dDNd_MuB0Y"},{"place":"cave","group":"物語","kind":"読む","name":"未来の一日 ─ どこにでもある会社の朝","note":"朗読ストーリーの本。","url":"https://tatatasan323-cell.github.io/note-app/mirai/"},{"place":"cave","group":"連載","kind":"読む","date":"2026-10-19","name":"AI利用、どこから始めるか。答えは「1人」と「1つの痛み」","url":"https://note.com/ai_naiseika/n/n27912da5b3da"},{"place":"cave","group":"連載","kind":"読む","date":"2026-10-13","name":"「スクールもコンサルも要らない」の、本当の意味","url":"https://note.com/ai_naiseika/n/n51217db465e9"},{"place":"cave","group":"連載","kind":"読む","date":"2026-10-12","name":"前橋の観光案内を、AIと2日で作る ー 「確かめた度合い」を隠さない作り方","url":"https://note.com/ai_naiseika/n/n5c6551d1beac"},{"place":"cave","group":"連載","kind":"読む","date":"2026-10-12","name":"工房からの警告 再び ー AIに任せていい所、いけない所","url":"https://note.com/ai_naiseika/n/neb45bbba31cf"},{"place":"cave","group":"連載","kind":"読む","date":"2026-10-10","name":"AIエージェントがあるのに、仕組みを作る理由 ー 内製化すべき2つの場所","url":"https://note.com/ai_naiseika/n/n667d22b71479"},{"place":"cave","group":"連載","kind":"読む","date":"2026-10-07","name":"会話だけで動画を作る ー【脱・動画生成】AIアニメーションの可能性","url":"https://note.com/ai_naiseika/n/na5e82389ac72"},{"place":"cave","group":"連載","kind":"読む","date":"2026-10-06","name":"工房からの警告 ー 「AIが勝手に動き回る？」報道の真偽と、守るべき場所","url":"https://note.com/ai_naiseika/n/n4c308409efd9"},{"place":"cave","group":"連載","kind":"読む","date":"2026-10-03","name":"ある日突然の「アカバン」 ー 生成AIサブスクの落とし穴","url":"https://note.com/ai_naiseika/n/n8923fd964394"},{"place":"cave","group":"連載","kind":"読む","date":"2026-09-29","name":"AI巨額投資の行く末 ー いつか来る「ババ抜き」ゲームの終わり","url":"https://note.com/ai_naiseika/n/nc9e8207bcf78"},{"place":"cave","group":"連載","kind":"読む","date":"2026-09-28","name":"パスキーも乗っ取られる時代に。必ずすべきセキュリティ対策とは。","url":"https://note.com/ai_naiseika/n/n5b747190fa6e"},{"place":"cave","group":"連載","kind":"読む","date":"2026-09-27","name":"AI暴走論と終末論のさなかで ー あなたがすべき一手とは","url":"https://note.com/ai_naiseika/n/nf04f65023439"},{"place":"cave","group":"連載","kind":"読む","date":"2026-09-21","name":"奇跡の37手から10年。中国AIの実力と、日本企業が引くべき一線。","url":"https://note.com/ai_naiseika/n/n31214e08120e"},{"place":"cave","group":"連載","kind":"読む","date":"2026-09-20","name":"AI依存症に陥らないためのガイド ー 「AIに聞く/指示する」2つの違い","url":"https://note.com/ai_naiseika/n/n4193a3063552"},{"place":"cave","group":"連載","kind":"読む","date":"2026-09-14","name":"あなたのAI、期待通り動きますか？ ー AIの力を引き出すための思考法","url":"https://note.com/ai_naiseika/n/n7e4462f1908f"},{"place":"cave","group":"連載","kind":"読む","date":"2026-09-08","name":"バックオフィスが消える日。社内ステータスがリアルに見える未来への羅針盤。","url":"https://note.com/ai_naiseika/n/n07f8688e64df"},{"place":"cave","group":"連載","kind":"読む","date":"2026-08-31","name":"AIが空けた穴を、別のAIが5日で見つけて突く ── 8月までのAI事故と、私の工房の点検結果","url":"https://note.com/ai_naiseika/n/ned77cf0c294e"},{"place":"cave","group":"連載","kind":"読む","date":"2026-08-26","name":"AIのこれから ─ 「情報の土台」を持つことの意味","url":"https://note.com/ai_naiseika/n/n54fd60e90f04"},{"place":"cave","group":"連載","kind":"読む","date":"2026-08-24","name":"AI最前線 ─ 代表5社の現在地と、内製化に使うべき道具","url":"https://note.com/ai_naiseika/n/n06bea781e796"},{"place":"cave","group":"連載","kind":"読む","date":"2026-08-17","name":"OpenAIという物語 ─ 「人類のためのAI」は、どこへ向かっているのか","url":"https://note.com/ai_naiseika/n/n12816bc47432"},{"place":"cave","group":"連載","kind":"読む","date":"2026-08-11","name":"70年というAIの歩み ─ その挑戦と、“ 奇跡の一手 ” と、一本の論文","url":"https://note.com/ai_naiseika/n/n3471aeed4c26"},{"place":"cave","group":"連載","kind":"読む","date":"2026-08-01","name":"AIとは本当は何なのか　優秀な相棒？　頼れる相談役？　得体のしれない何か？","url":"https://note.com/ai_naiseika/n/n33eadda7b1b0"},{"place":"cave","group":"連載","kind":"読む","date":"2026-07-31","name":"経営者が知るべき、最後まで残る仕事 ─ AIが連れて行く “異世界” の話","url":"https://note.com/ai_naiseika/n/ne340418a0949"},{"place":"cave","group":"連載","kind":"読む","date":"2026-07-28","name":"Anthropicが、自社のAI開発ツールの内部指示を8割以上削除。その真意は？","url":"https://note.com/ai_naiseika/n/nec9184d934b1"},{"place":"cave","group":"連載","kind":"読む","date":"2026-07-27","name":"HTMLとは？ Pythonとは？ ─ 目指す内製化を一目で理解する見取り図","url":"https://note.com/ai_naiseika/n/ne47dde16170f"},{"place":"cave","group":"連載","kind":"読む","date":"2026-07-23","name":"AIは本当に安全なのか？ 世間で騒がれているプロンプトインジェクションを回避する唯一の方法とは？","url":"https://note.com/ai_naiseika/n/nd3d82deb2f4f"},{"place":"cave","group":"連載","kind":"読む","date":"2026-07-20","name":"その事務仕事いつまでやるのですか？【２】　例えば転記作業が無くなる日","url":"https://note.com/ai_naiseika/n/n5f46bef5c41b"},{"place":"cave","group":"連載","kind":"読む","date":"2026-07-12","name":"その事務仕事いつまでやるのですか？【１】　例えば明細を放り込むだけのツール","url":"https://note.com/ai_naiseika/n/n56e563d80e2a"},{"place":"cave","group":"連載","kind":"読む","date":"2026-07-06","name":"AI導入、知らないと失敗する ─ 成功に近づくための「内製化ロードマップ」","url":"https://note.com/ai_naiseika/n/nbf98e9add127"},{"place":"cave","group":"連載","kind":"読む","date":"2026-07-04","name":"ぶっちゃけ、AIは何から入れると儲かる？ ─ 経営者のための “利益” の地図","url":"https://note.com/ai_naiseika/n/nb7e3a2ca7fca"},{"place":"cave","group":"連載","kind":"読む","date":"2026-06-29","name":"繰り返し定型作業をAIで ─ 一度の “仕組み” が大切","url":"https://note.com/ai_naiseika/n/n9462746fd8ba"},{"place":"cave","group":"連載","kind":"読む","date":"2026-06-22","name":"メールは良いのに、AIはダメ？ ─ 会社の情報を “どこまで外に出すか”","url":"https://note.com/ai_naiseika/n/n295bc71d253d"},{"place":"cave","group":"連載","kind":"読む","date":"2026-06-15","name":"プロトタイプは早い、本番はその先 ─ 内製化を「育てる」ということ","url":"https://note.com/ai_naiseika/n/n4f8ea3f4696d"},{"place":"cave","group":"連載","kind":"読む","date":"2026-06-12","name":"バイブコーディングが通用しなくなる日 ─ AIに渡す『要件定義』の話","url":"https://note.com/ai_naiseika/n/n5f043fb74a72"},{"place":"cave","group":"連載","kind":"読む","date":"2026-06-09","name":"AIは嘘をつかない。けれど、あなたに「忖度」する","url":"https://note.com/ai_naiseika/n/n34c94b0c2a20"},{"place":"cave","group":"連載","kind":"読む","date":"2026-06-04","name":"AIと迷走しないために、最初にやるべきこと","url":"https://note.com/ai_naiseika/n/nb72e3552d43d"},{"place":"cave","group":"連載","kind":"読む","date":"2026-05-31","name":"AIエージェントを、今日入れる ─ 使い方も、AIに聞けばいい","url":"https://note.com/ai_naiseika/n/n808d67e92440"},{"place":"cave","group":"連載","kind":"読む","date":"2026-05-26","name":"「こうしたい」と伝えるだけで、何かが作れる時代","url":"https://note.com/ai_naiseika/n/n912fbc83f1c6"},{"place":"cave","group":"連載","kind":"読む","date":"2026-05-25","name":"料理人だった私が、AI内製化でシステムを作れる理由","url":"https://note.com/ai_naiseika/n/nd6a51b98694c"},{"place":"cave","group":"連載","kind":"読む","date":"2026-05-18","name":"AIを学ぶのに「スクール」「コンサル」が要らない新時代","url":"https://note.com/ai_naiseika/n/ndfc95eb3f0fa"},{"place":"cloud","group":"旅のしおり","kind":"使う","name":"前橋まちあるき（12/20 まで）","note":"芸術祭と「詩のまち」を歩く案内。確かめた度合いを印で示す。","url":"https://tatatasan323-cell.github.io/note-app/tabi/maebashi/"},{"place":"cloud","group":"旅のしおり","kind":"使う","name":"松本まちあるき","note":"松本駅から美ヶ原温泉まで、ゆるく歩く参考メモ（11/7〜8 の例）。","url":"https://tatatasan323-cell.github.io/note-app/tabi/matsumoto-burari/"},{"place":"cloud","group":"世界旅行","kind":"見る","name":"想像の世界旅行","note":"雲に乗って、想像だけで世界を旅する部屋を作っています。","status":"準備中","url":""}],"links":[{"name":"note「AI内製化の羅針盤」","url":"https://note.com/ai_naiseika"},{"name":"YouTube「AI内製化工房 MITA」","url":"https://www.youtube.com/@ai_naiseika_mita"},{"name":"X @ai_naiseika","url":"https://x.com/ai_naiseika"},{"name":"音楽 BGM&V Studio（AI音楽工房の制作）","url":"https://www.youtube.com/@BackgroundMusicVideoStudio"}],"trees":{"sizes":[[1347,493],[1455,1102]],"cells":[[-153,268,336,243,554,396,16,493,0,1],[-20,275,301,235,0,677,137,492,0,1],[120,297,252,210,1039,677,250,490,0,1],[215,323,259,188,0,914,357,495,0,1],[361,341,220,176,937,0,479,499,0,0],[461,363,186,154,1159,0,560,497,0,0],[814,369,190,148,0,345,911,499,0,0],[893,331,249,187,686,0,1014,497,0,0],[1006,325,238,187,261,914,1118,497,0,1],[1090,271,283,241,892,396,1234,495,0,1],[1202,295,287,222,531,677,1340,498,0,1],[1314,279,261,237,1177,396,1441,501,0,1],[-169,240,398,394,0,0,30,620,1,1],[-11,325,322,315,1131,0,150,630,1,1],[136,358,268,266,284,396,270,610,1,1],[283,419,217,215,820,677,392,620,1,1],[344,297,351,343,0,0,520,630,1,0],[752,297,331,327,353,0,918,610,1,0],[933,410,226,224,303,677,1046,620,1,1],[1027,355,282,279,0,396,1168,620,1,1],[1121,310,338,330,791,0,1290,630,1,1],[1215,239,389,385,400,0,1410,610,1,1]]},"music":{"settings":{"volume":0.7,"overlap":4,"fade_in":4},"rules":[{"place":"roots","song":"03"},{"months":[12,1,2],"hours":[16,5],"song":"06"},{"hours":[5,11],"song":"01"},{"hours":[11,16],"songs":["04","05"]},{"hours":[16,5],"song":"02"}],"songs":[{"no":"01","title":"朝つゆの森","note":"朝の光が、葉の先の露をひとつずつ照らしていく森。チェレスタとオルゴールがきらきらと目をさまし、ハープとグロッケン、カリンバが続きます。フルートは、遠くで鳴く小鳥のように。","trivia":["チェレスタは、パリの楽器製作者オーギュスト・ミュステルが1886年に特許をとった楽器。","チャイコフスキーの『くるみ割り人形』の「金平糖の踊り」は、チェレスタを使った曲として有名。"],"file":"bgm/01.m4a","bpm":68.0,"ready":true},{"no":"02","title":"ほたるの灯る夜","note":"日が落ちて、森にほたるの小さな灯りがともる夜。チェレスタとオルゴール、ハープが静かに瞬き、言葉のないコーラスと鈴の音が、闇をやさしく包みます。","trivia":["オルゴールの歴史は1796年、ジュネーブの時計職人アントワーヌ・ファーブルの発明から始まったとされる。"],"file":"bgm/02.m4a","bpm":58.75,"ready":true},{"no":"03","title":"世界樹への祈り","note":"工房の根元で、世界樹に手を当てて祈るひととき。ケルトのハープが静かに語り、ティンホイッスルが風のように、チェロが大地のように深く響きます。","trivia":["アイルランドの国章はハープ。大統領や大臣の印章にも、アイルランドのユーロ硬貨にも描かれている。","国章のハープのお手本は、ダブリンのトリニティ・カレッジの博物館に残る14世紀のハープ。"],"file":"bgm/03.m4a","bpm":89.1,"ready":true},{"no":"04","title":"妖精たちのワルツ","note":"昼下がりの木もれ日の中、妖精たちが輪になって踊る3拍子。オルゴールとチェレスタがくるくる回り、ピチカートの弦が足どりを刻み、フルートが軽やかに舞います。","trivia":["ワルツは4分の3拍子の踊りの曲。1814〜15年のウィーン会議をきっかけに、ヨーロッパ中へ広まった。","『美しく青きドナウ』は「ワルツ王」ヨハン・シュトラウス2世の曲。1867年にウィーンで初演された。"],"file":"bgm/04.m4a","bpm":95.7,"ready":true},{"no":"05","title":"雨上がりのしずく","note":"雨がやんで、葉から落ちるしずくが光る森。ピアノとチェレスタが雫のように、カリンバがぽつぽつと、ウィンドチャイムが風にゆれて鳴ります。","trivia":["カリンバはアフリカの「親指ピアノ」の仲間。金属の鍵の親指ピアノは、約1300年前にザンベジ川のほとりで生まれたという。","ピアノの黒鍵だけを弾くと、五つの音でできた音階「ペンタトニック（五音音階）」になる。"],"file":"bgm/05.m4a","bpm":64.6,"ready":true},{"no":"06","title":"雪ふる森の冬ごもり","note":"雪が音を吸いこんで、しんと静かな冬の夜の森。チェレスタとオルゴール、ハープがやわらかく降り、グラスハーモニカの澄んだ響きが、雪明かりのように広がります。","trivia":["グラスハーモニカは、フランクリンが1761年に完成させた楽器。回るガラスの器のふちに、ぬれた指で触れて鳴らす。","モーツァルトも1791年、グラスハーモニカの入った「アダージョとロンド」（K.617）を書いた。"],"file":"bgm/06.m4a","bpm":68.0,"ready":true}]}};
   const $ = (id) => document.getElementById(id);
   const PLACES = new Map(DATA.places.map((p) => [p.id, p]));
   const stage = $('stage'), ui = $('stageUi'), wrap = $('stageWrap'), labelsBox = $('labels'), prompt = $('prompt');
@@ -181,7 +181,7 @@
   let listening = null;
   const want = () => (listening ? listening.list[listening.i] : choose(new Date(), sheetPlace));
   const upcoming = () => (listening && listening.list.length > 1 ? listening.list[(listening.i + 1) % listening.list.length] : want());
-  function vol() { for (const p of bgm.els) { const v = Math.max(0, Math.min(1, bgm.out.value * p.g.value)); if (Math.abs(p.a.volume - v) > 0.002) p.a.volume = v; } }
+  function vol() { for (const p of bgm.els) { const v = Math.max(0, Math.min(1, bgm.out.value * p.g.value)); if (Math.abs(p.a.volume - v) > 0.002 || !v) p.a.volume = v; } }
   function bgmPrime() {   // さわった時に用意する（スマホは、さわった時でないと鳴らせない）。読むのは流す1曲だけ
     if (bgm || !TRACKS.size || (!ctx() && !NATIVE)) return;
     const first = TRACKS.get(choose(new Date(), sheetPlace) || [...TRACKS.keys()][0]);
@@ -396,10 +396,11 @@
   }
   function instantly(fn) { setCls('instant', true); fn(); void stage.offsetWidth; requestAnimationFrame(() => setCls('instant', false)); }
   // 開いた後に要る絵（森・見開き・飛び出す紙・住人・木の部品）は、最初の絵（図書館）が出てから読む。先に押されたら、その時に読む
-  //   本人 2026-10-25「推奨の形で予算を見直して」：予算は「開く前に読む量」で守る（成果物の基本 1. 重さ）
   function later() {
     if (!wrap.classList.contains('wait')) return;
-    for (const im of document.querySelectorAll('img[data-src]')) { im.src = im.dataset.src; im.removeAttribute('data-src'); }
+    const season = skyOf(new Date()).season;   // 森は今の季節の絵だけ
+    wrap.dataset.season = season;
+    for (const im of document.querySelectorAll('img[data-src]')) { im.src = im.dataset.src.replace('_autumn.', `_${season}.`); im.removeAttribute('data-src'); }
     wrap.classList.remove('wait');
   }
   if (document.readyState === 'complete') setTimeout(later, 0); else addEventListener('load', () => setTimeout(later, 0), { once: true });
@@ -748,7 +749,7 @@
     if (wt) wt.style.transform = '';
   }
 
-  // ---------- 妖精の光の粉：飛んだ道筋に残り、その場でまたたいて消える（本人 2026-10-25）----------
+  // ---------- 妖精の光の粉：飛んだ道筋に残り、その場で消える ----------
   const fairyEl = ui.querySelector('.fairy');
   let dustTimer = 0, flying = false;
   function dustAt(x, y) {

diff --git a/style.css b/style.css
@@ -36,16 +36,27 @@ a{color:inherit}
 /* PC など舞台の左右に空きがある時：同じ森の全体を、舞台と同じ倍率で後ろに敷く（まん中は舞台の絵と重なる） */
 .forest-wide{display:none}
 .wide .forest-wide{display:block;position:absolute;z-index:0;top:0;left:50%;width:calc(1440px * var(--s, 1));height:calc(640px * var(--s, 1));margin-left:calc(-720px * var(--s, 1));
-  background:url(img/forest_c.webp) 50% 0/calc(390px * var(--s, 1)) calc(640px * var(--s, 1)) no-repeat,url(img/forest_w.webp) 0 0/100% 100% no-repeat;opacity:0;transition:opacity .9s ease .1s;
+  background-position:50% 0,0 0;background-size:calc(390px * var(--s, 1)) calc(640px * var(--s, 1)),100% 100%;background-repeat:no-repeat;opacity:0;transition:opacity .9s ease .1s;
   -webkit-mask-image:linear-gradient(to right,transparent,#000 4%,#000 96%,transparent);mask-image:linear-gradient(to right,transparent,#000 4%,#000 96%,transparent)}
 .wide .forest-c{display:none}   /* 左右に空きがある時は、まん中の絵も同じ1枚の層に描く（舞台のふちに境目の筋を出さない） */
 .stage.open~.forest-wide{opacity:1}
 .stage.instant~.forest-wide{transition:none!important}
-/* 森の木（風で揺れる部品・白地）：森の地に掛け算で重ねる（森の膜は掛け算なので、前の1枚の森と同じ色）。
-   箱でくくらない（くくると掛け算が箱の中だけになり、白地が出る）。スマホは舞台の中・PC は舞台の外の森の層の上。JS が根元を軸にしならせる */
-.tr{position:absolute;display:block;left:0;top:0;pointer-events:none;background-repeat:no-repeat}   /* 紙の木（透明な地）をそのまま重ねる：手前の紙が奥を隠す（掛け算だと紙が透けた） */
-.tr.s0{background-image:url(img/trees_c.webp)}
-.tr.s1{background-image:url(img/trees_w.webp)}
+/* 森の木（風で揺れる部品）：透明な地の紙の木を、森の地にそのまま重ねる（手前の紙が奥を隠す。掛け算だと紙が透けた）。
+   スマホは舞台の中・PC は舞台の外の森の層の上。JS が根元を軸にしならせる */
+.tr{position:absolute;display:block;left:0;top:0;pointer-events:none;background-repeat:no-repeat}
+/* 季節ごとの森（本人 2026-10-26）：JS が今の季節を data-season に入れ、その季節の絵だけを読む */
+[data-season=spring] .forest-wide{background-image:url(img/forest_c_spring.webp),url(img/forest_w_spring.webp)}
+[data-season=summer] .forest-wide{background-image:url(img/forest_c_summer.webp),url(img/forest_w_summer.webp)}
+[data-season=autumn] .forest-wide{background-image:url(img/forest_c_autumn.webp),url(img/forest_w_autumn.webp)}
+[data-season=winter] .forest-wide{background-image:url(img/forest_c_winter.webp),url(img/forest_w_winter.webp)}
+[data-season=spring] .tr.s0{background-image:url(img/trees_c_spring.webp)}
+[data-season=spring] .tr.s1{background-image:url(img/trees_w_spring.webp)}
+[data-season=summer] .tr.s0{background-image:url(img/trees_c_summer.webp)}
+[data-season=summer] .tr.s1{background-image:url(img/trees_w_summer.webp)}
+[data-season=autumn] .tr.s0{background-image:url(img/trees_c_autumn.webp)}
+[data-season=autumn] .tr.s1{background-image:url(img/trees_w_autumn.webp)}
+[data-season=winter] .tr.s0{background-image:url(img/trees_c_winter.webp)}
+[data-season=winter] .tr.s1{background-image:url(img/trees_w_winter.webp)}
 .wait .tr,.wait .forest-wide{background-image:none!important}   /* 開いた後の森は、最初の絵（図書館）が出てから読む（JS が wait を外す） */
 .wide .stage>.tr,.trees-w{display:none}
 .wide .trees-w{display:block}

diff --git a/index.html b/index.html
@@ -30,7 +30,7 @@
   <section class="map" aria-label="工房の地図">
    <div class="stage-wrap wait" id="stageWrap">
     <div class="stage" id="stage">
-      <img class="forest-c" data-src="img/forest_c.webp" alt="" width="390" height="640">
+      <img class="forest-c" data-src="img/forest_c_autumn.webp" alt="" width="390" height="640">
       <div class="sky-clouds" aria-hidden="true"><span class="bow"></span><span class="sc sc1"></span><span class="sc sc2"></span><span class="sc sc3"></span></div>
       <img class="arch-light" src="img/arch_light.webp" alt="" width="390" height="640" fetchpriority="high">
       <img class="arch-wall" src="img/arch_wall.webp" alt="" width="390" height="640" fetchpriority="high">
